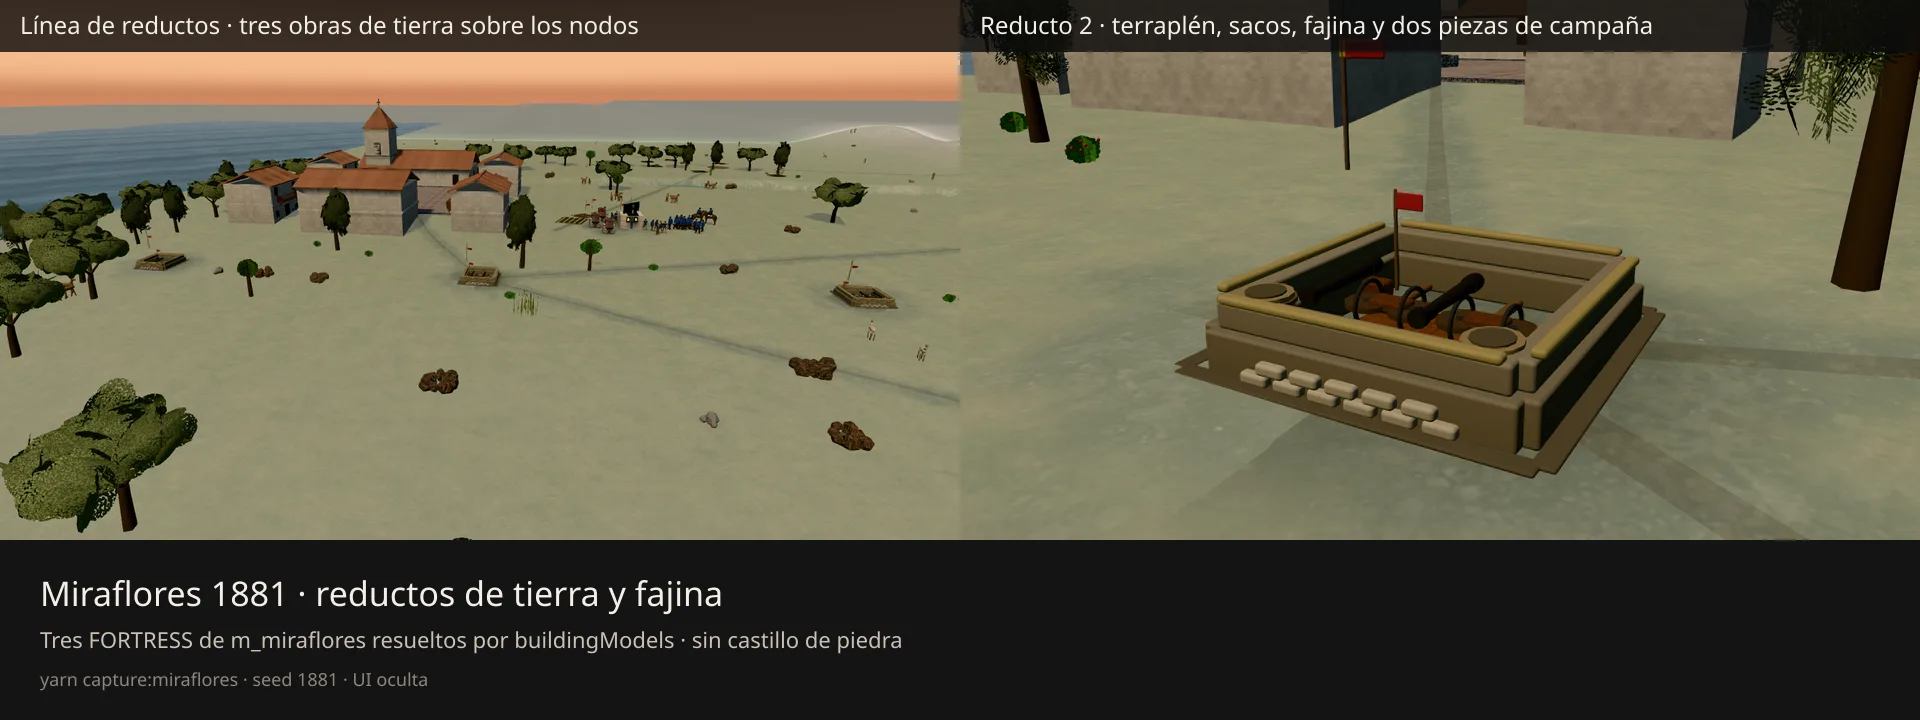
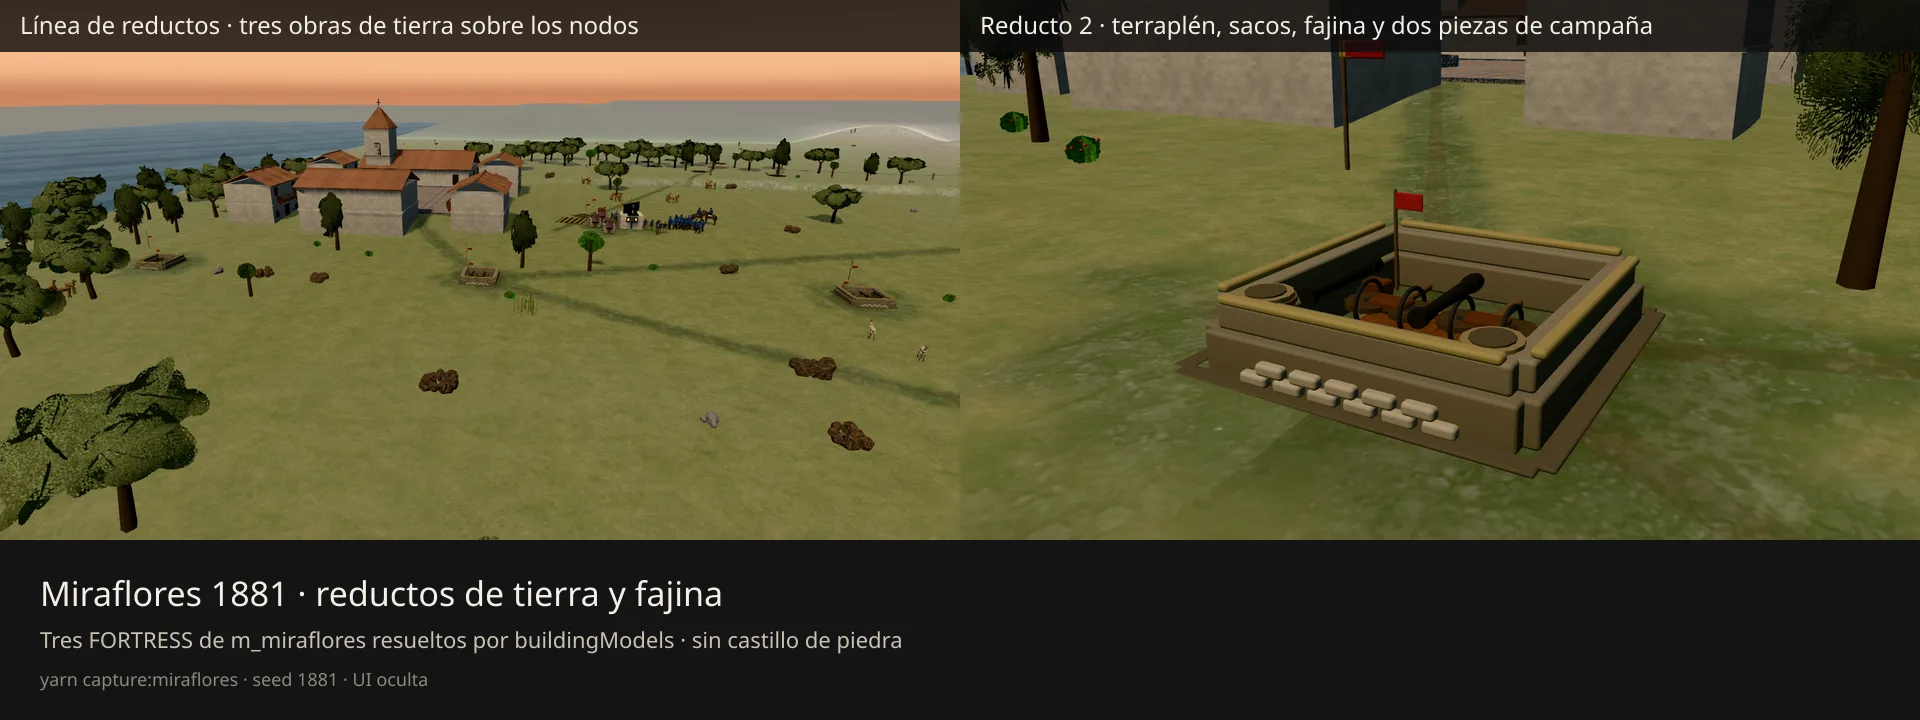
fix(campaign): split the documented redoubt from its abstracted props

diff --git a/docs/design/miraflores-model-mission.md b/docs/design/miraflores-model-mission.md
@@ -25,13 +25,19 @@ The line was earth-and-fascine fieldwork, not masonry: the asset audit's P1-2 fo
 generic stone fortress. `m_miraflores` now declares
 `buildingModels: { fortress: { type: 'redoubt_1881', scale: 1.06 } }`, so only this mission resolves the
 `FORTRESS` to the procedural redoubt (stepped earth parapet with a straw fascine crest, sandbag revetment,
-gabions at the front corners and two field guns). The override is presentation-only: HP, armor, cost, footprint,
-garrison, defensive attack and the `a1_reductos` / `a1_cuarto` objectives are unchanged. Every other mission and
-every skirmish keep the stone `fortress_imperial`.
+gabions at the front corners and two field guns). The earthwork type is documented; the exact props and the two
+guns are the model's abstraction of a standard 1881 fieldwork, not an inventory of a specific redoubt. The
+override is presentation-only: HP, armor, cost, footprint, garrison, defensive attack and the `a1_reductos` /
+`a1_cuarto` objectives are unchanged. Every other mission and every skirmish keep the stone `fortress_imperial`.
 
-Evidence: [`miraflores-redoubts.webp`](../media/miraflores-redoubts.webp) (the three nodes and the centre redoubt),
-reproduced with `yarn capture:miraflores --out=docs/media/miraflores-redoubts` (seed 1881, UI hidden, redoubts
-spawned through `spawnScriptedBuilding`).
+This closes the **redoubt half** of P1-2. The site still draws the Lima heightfield and colonial kit as the city
+backdrop, which the dossier grades as a declared abstraction; it is not claimed as a surveyed Miraflores plan.
+
+Evidence: [`miraflores-redoubts.webp`](../media/miraflores-redoubts.webp) (the three nodes and the centre redoubt)
+and [`miraflores-redoubts-before-after.webp`](../media/miraflores-redoubts-before-after.webp) (the same line and
+camera with the stone control), reproduced with
+`yarn capture:miraflores --out=docs/media/miraflores-redoubts` (seed 1881, UI hidden, redoubts spawned through
+`spawnScriptedBuilding`).
 
 ## Map and site
 

diff --git a/docs/plan/0.2.1-asset-corrections.md b/docs/plan/0.2.1-asset-corrections.md
@@ -128,7 +128,7 @@ Add one focused test file (or extend `tests/model-assets.test.ts` if it exists) 
 
 | Order | Finding | Change | Files | Effort |
 | ---: | --- | --- | --- | --- |
-| 1 | P1-2 | Miraflores: the `lima_plaza` proxy stays hidden, the site is framed and labelled on the redoubt line, and the `arica_battery` decor is replaced by earthwork redoubts. **Done:** the mission's FORTRESS resolves to the procedural `redoubt_1881` (stepped earth parapet, fascine crest, sandbags, gabions and two field guns). | `sites.ts`, `m_miraflores.ts`, `ProceduralModel.ts` | S/M |
+| 1 | P1-2 | Miraflores: the `lima_plaza` proxy stays hidden, the site is framed and labelled on the redoubt line, and the `arica_battery` decor is replaced by earthwork redoubts. **Done (redoubt half):** the mission's FORTRESS resolves to the procedural `redoubt_1881` (stepped earth parapet, fascine crest, sandbags, gabions and two field guns). The site keeps the Lima heightfield/colonial kit as the declared city backdrop. | `sites.ts`, `m_miraflores.ts`, `ProceduralModel.ts` | S/M |
 | 2 | P1-7 | `Yachaywasi` label per culture/era (m3, m8, m9; keep it for the Inca). | `buildings.ts`, `es.ts`, mission `buildingNames` | S |
 | 3 | P1-8 | `Pucará` label per culture/era (Moche/Recuay, Realistas, Patriotas, Chile). | `buildings.ts`, `es.ts`, mission `buildingNames` | S |
 | 4 | P1-9 | Era-aware headwear: morion 1535–1572, bicorn 1780–1826, kepi 1880. **Done:** the 1814–1824 patriots use the bicorn; the realistas keep the morion in 1535–1572 and switch to the bicorn in 1780–1826, including mounted variants. | `postColonialCharacters.ts`, `mountedCharacters.ts`, `modelAssets.ts` | S/M |

diff --git a/docs/historia/campanas/miraflores.md b/docs/historia/campanas/miraflores.md
@@ -37,7 +37,8 @@
 | Cifras de tropas y bajas | Aproximado | Perú 20 000–22 000; Chile unos 23 129; bajas dispares. No se muestran como dato duro. |
 | Saqueo de Chorrillos y ocupación de Lima | Documentado | Se narra con sobriedad; no se escenifica. |
 | Quién rompió el armisticio | Debatido | Cada bando culpa al otro; el juego no lo resuelve. |
-| Reductos de tierra y fajina | Documentado | Obra de campaña de 1881; el modelo dibuja terraplén, fajina, sacos y artillería de campaña. Basadre, Sater; auditoría de activos P1-2. |
+| Reductos de tierra y fajina | Documentado | Obra de campaña de 1881: la línea se levantó con tierra y fajina. Basadre, Sater; auditoría de activos P1-2. |
+| Terraplén, sacos, gabiones y dos piezas | Abstracción | Composición del modelo a partir del tipo de obra documentado; no es un inventario pieza por pieza de un reducto concreto. |
 | Reductos y plaza de Lima | Abstracción | El `miraflores_site` usa el kit colonial de Blender en fase `ciudad`; la cámara y la etiqueta encuadran la línea de Miraflores, no la Plaza Mayor. |
 
 ## Fuentes
